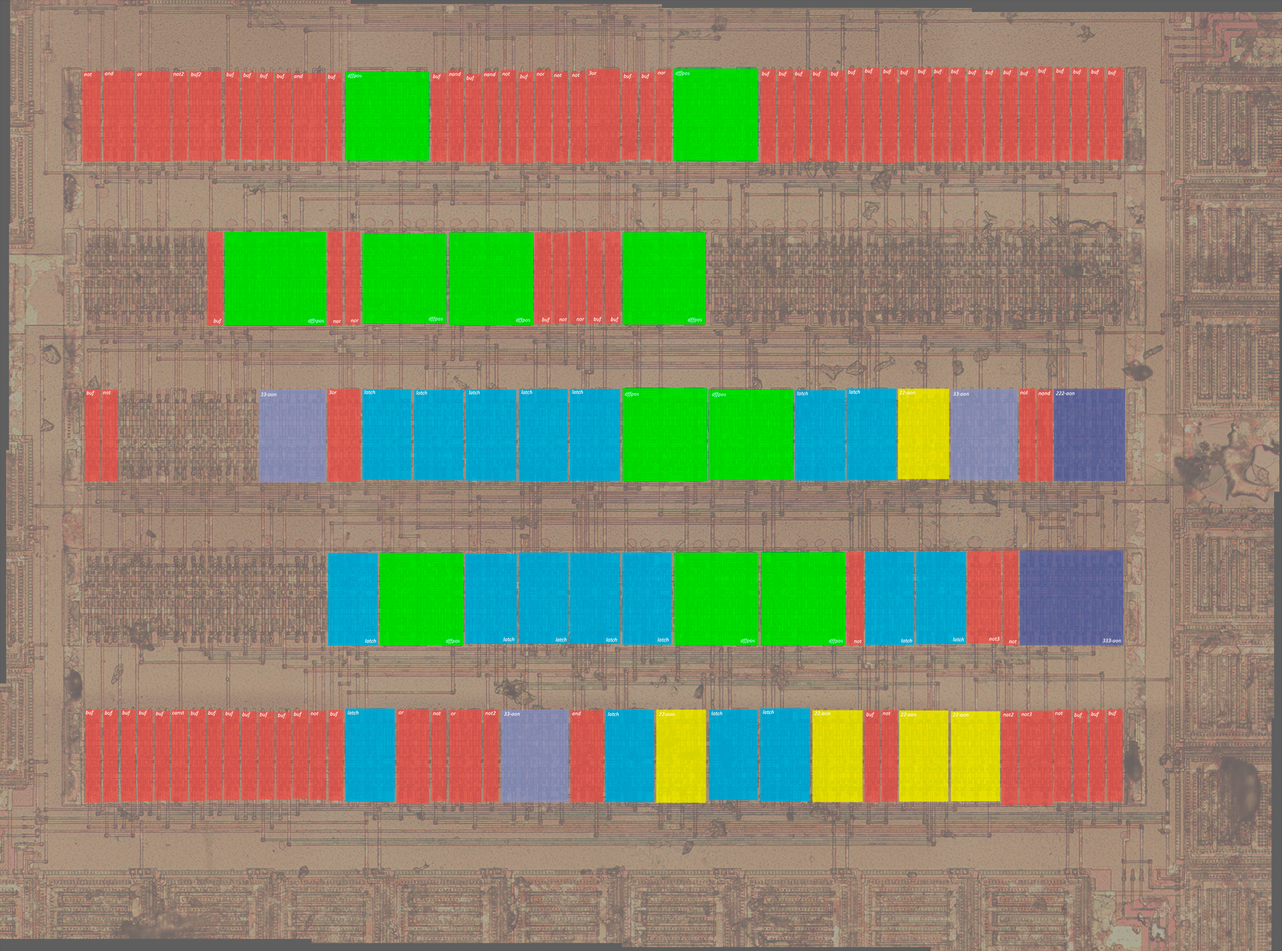
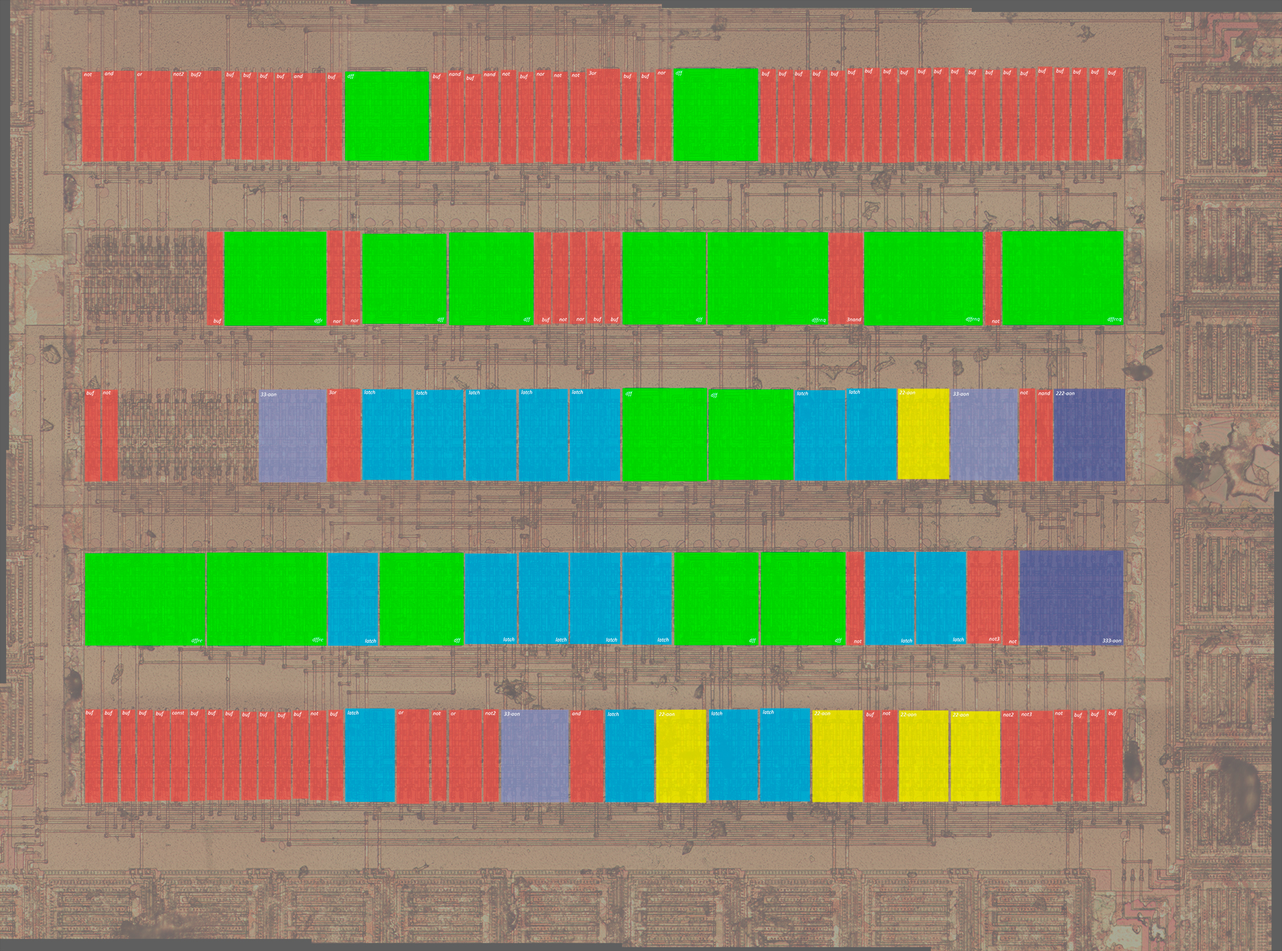
Removed pos from dff (posedge by default)

Changed region(s): [[0.5232, 0.2167, 0.8925, 0.3406], [0.0616, 0.5573, 0.277, 0.6812]]

diff --git a/MMC1/modules.md b/MMC1/modules.md
@@ -102,28 +102,28 @@ Static latch. Can be used as register bit.
 |![latch_topo.jpg](imgstore/latch_topo.jpg)|![latch_tran.jpg](imgstore/latch_tran.jpg)|
 |---|---|
 
-### dffpos
+### dff
 
 Posedge DFF.
 
 |![dffpos_topo.jpg](imgstore/dffpos_topo.jpg)|![dffpos_tran.jpg](imgstore/dffpos_tran.jpg)|![dffpos_logisim.jpg](imgstore/dffpos_logisim.jpg)|
 |---|---|---|
 
-### dffrpos
+### dffr
 
 Posedge DFF with async #reset.
 
 |![dffrpos_topo.jpg](imgstore/dffrpos_topo.jpg)|![dffrpos_tran.jpg](imgstore/dffrpos_tran.jpg)|![dffrpos_logisim.jpg](imgstore/dffrpos_logisim.jpg)|
 |---|---|---|
 
-### dffrposnq
+### dffrnq
 
 Posedge DFF with async #reset and additional inverse output (#Q).
 
 |![dffrposnq_topo.jpg](imgstore/dffrposnq_topo.jpg)|![dffrposnq_logisim.jpg](imgstore/dffrposnq_logisim.jpg)|
 |---|---|
 
-### dffrepos
+### dffre
 
 Posedge DFF with async #reset and Master/Slave enable.
 
